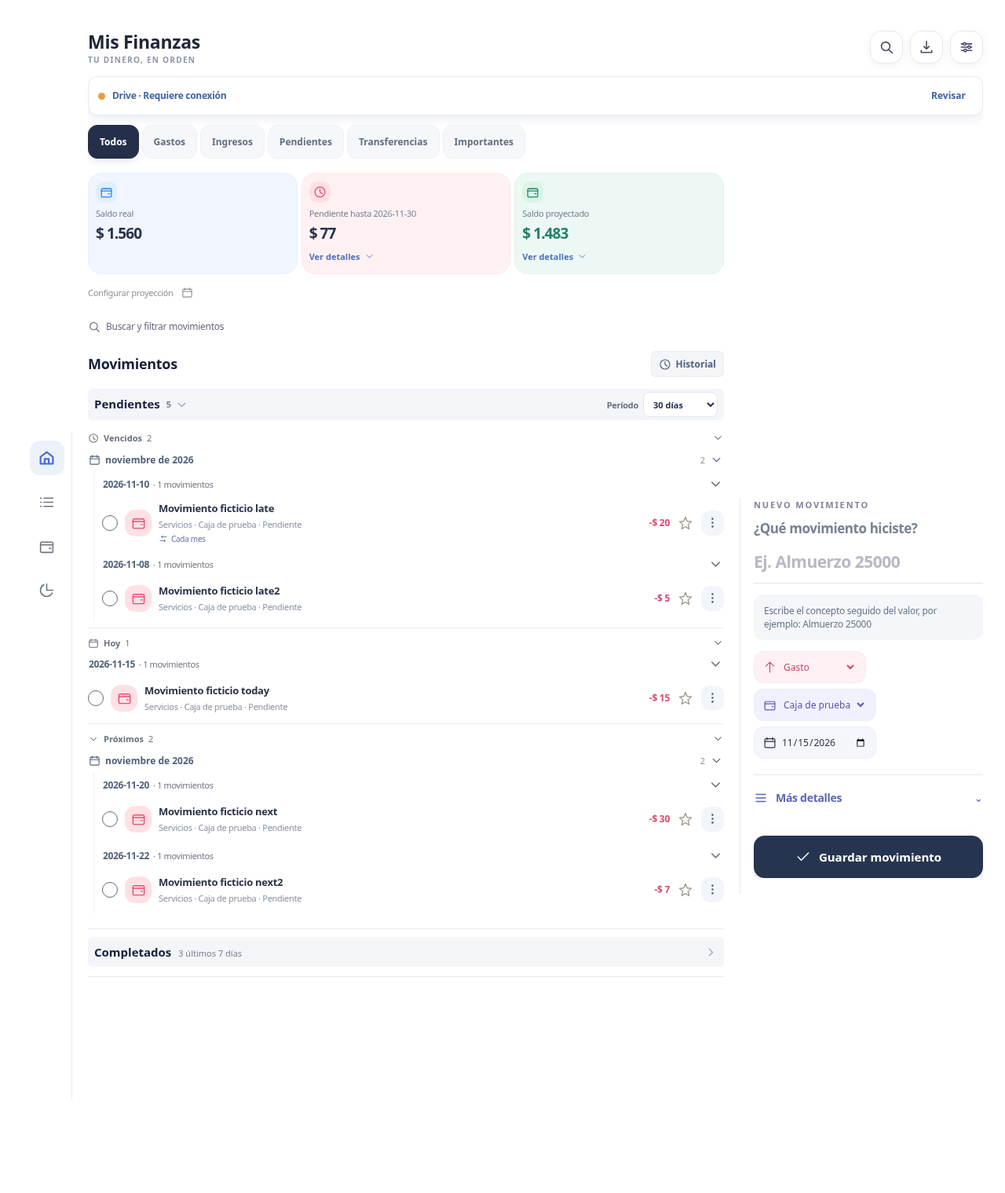
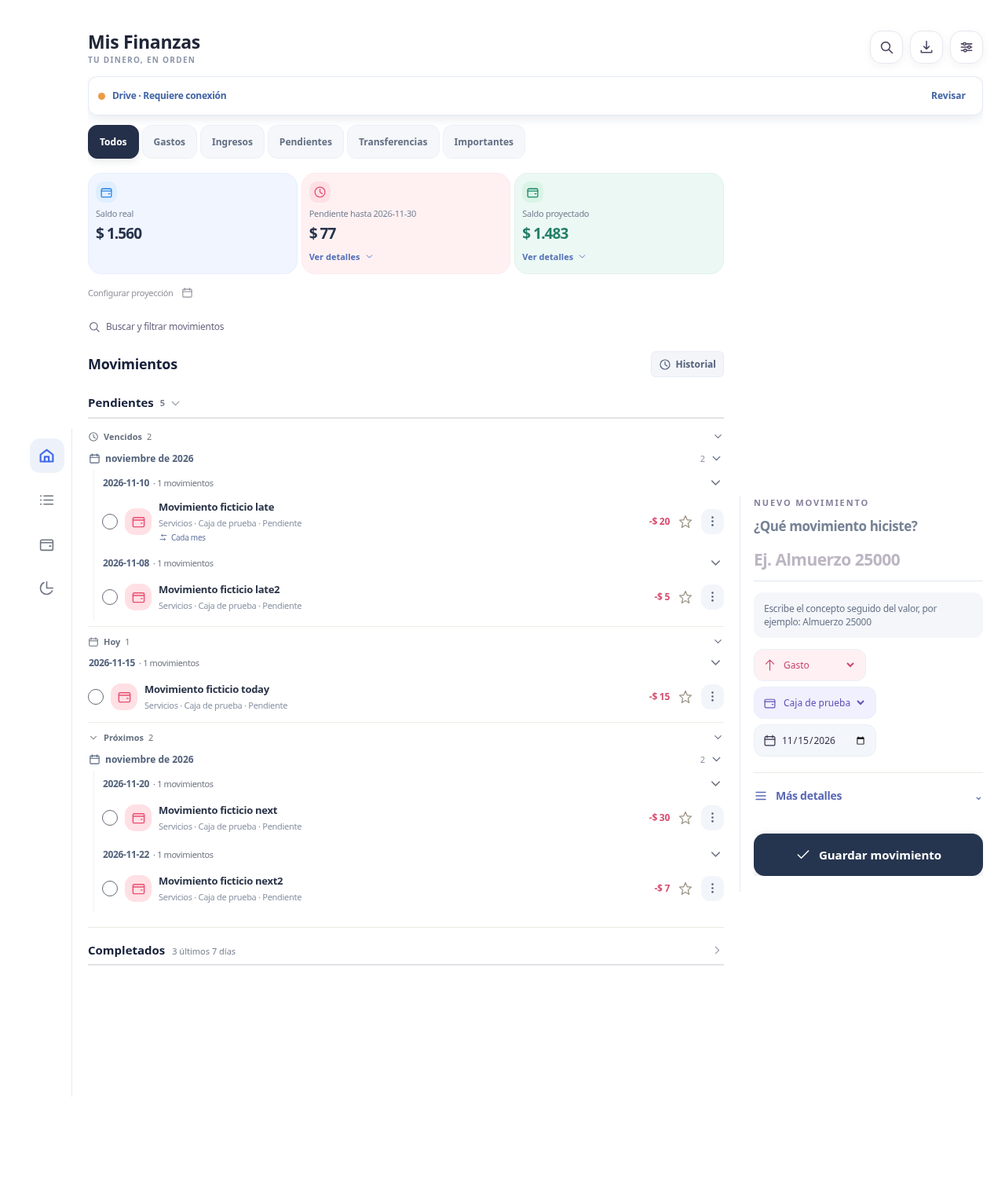
Aligerar encabezados de Inicio y mover filtro de periodo

diff --git a/index.html b/index.html
@@ -250,7 +250,9 @@ const render=()=>{document.getElementById('nav').innerHTML=['Inicio','Listas','C
 const searchWasOpen=document.querySelector('.filters-panel')?.open;
 document.getElementById('main').innerHTML=html;
 if(searchWasOpen&&page==='Inicio')document.querySelector('.filters-panel').open=true;
+if(page==='Inicio')placeAgendaPeriod();
 if(page==='Análisis')arrangeAnalysisSections()};
+const placeAgendaPeriod=()=>{const period=document.querySelector('.agenda-main-head .agenda-period'),fields=document.querySelector('.filters-panel .row');if(!period||!fields)return;if(fields.querySelector('#agendaPeriod')){period.remove();return}period.className='field';fields.append(period)};
 const arrangeAnalysisSections=()=>{const main=document.getElementById('main'),headings=[...main.querySelectorAll(':scope > .section-heading')];if(headings.length!==3)return;const strip=document.createElement('div');strip.className='analysis-tracking';headings[0].before(strip);headings.forEach((heading,i)=>{const section=document.createElement('section');section.className='analysis-tracking-column';let node=heading;while(node&&node!==headings[i+1]){const next=node.nextElementSibling;section.append(node);node=next}strip.append(section);const rows=[...section.querySelectorAll(':scope > .budget-row,:scope > .item')];rows.forEach((row,j)=>{row.hidden=j>=3&&!expandedAnalysisSections.has(i)});if(rows.length>3)section.insertAdjacentHTML('beforeend',`<button type="button" class="analysis-more" data-action="toggleAnalysisSection" data-section="${i}" aria-expanded="${expandedAnalysisSections.has(i)}">${expandedAnalysisSections.has(i)?'Ver menos':`Ver todos (${rows.length})`}</button>`);if(i===2)rows.forEach((row,j)=>{const d=db.debts[j],original=Number(d.balance),remaining=debtBalance(d);if(d.balance==null||d.balance===''||!Number.isFinite(original)||original<=0||!Number.isFinite(remaining)||remaining>original)return;const paid=Math.max(0,original-remaining),percent=Math.min(100,paid/original*100);row.querySelector('.detail')?.insertAdjacentHTML('beforeend',`<div class="progress debt-progress" role="progressbar" aria-label="Abonado a ${esc(d.name)}" aria-valuemin="0" aria-valuemax="100" aria-valuenow="${Math.round(percent)}"><i style="width:${percent}%"></i></div>`)})})};
 const open=html=>{const modal=document.getElementById('modal');if(!desktopQuickOpening&&modal.dataset.inlineQuick==='true'){parkedQuick=modal.firstElementChild;parkedQuick.remove()}modal.dataset.inlineQuick=desktopQuickOpening?'true':'false';modal.innerHTML=`<div class="overlay" id="overlay"><div class="sheet">${html}</div></div>`};const close=()=>{const modal=document.getElementById('modal');modal.innerHTML='';if(desktopLayout.matches&&parkedQuick){modal.dataset.inlineQuick='true';refreshParkedQuick();modal.append(parkedQuick);parkedQuick=null}else{parkedQuick=null;modal.dataset.inlineQuick='false';mountDesktopQuick()}};const field=(label,name,value='',type='text')=>`<label class="field">${label}<input name="${name}" type="${type}" value="${esc(value)}" ${type==='number'?'min="0" step="any"':''}></label>`;const select=(label,name,items,val='')=>`<label class="field">${label}<select name="${name}">${items.map(([id,name])=>`<option value="${esc(id)}" ${val===id?'selected':''}>${esc(name)}</option>`).join('')}</select></label>`;const form=(title,content,action='save')=>open(`<div class="between"><h2>${title}</h2><button class="iconbtn" data-action="close">✕</button></div><form id="form" data-form="${action}">${content}<div class="row" style="margin-top:22px"><button class="secondary" type="button" data-action="close">Cancelar</button><button class="primary" type="submit">Guardar</button></div></form>`);const accountOptions=()=>db.accounts.map(a=>[a.id,a.name]);
 const transactionForm=(id)=>{let t=db.transactions.find(x=>x.id===id)||{type:'expense',title:'',amount:'',category:'Alimentación',date:today(),account:db.accounts[0]?.id,toAccount:db.accounts[1]?.id,list:'',status:'done',repeat:'',notes:'',star:false};let quick=t.title+(t.amount?' '+t.amount:'');if(!id&&t.date>today())t.status='pending';open(`<div class="quick-head"><span class="quick-kicker">${id?'EDITAR':'NUEVO'} MOVIMIENTO</span><button class="quick-close" data-action="close" aria-label="Cerrar">×</button></div><form id="form" data-form="transaction"><input type="hidden" name="id" value="${esc(id||'')}"><input type="hidden" name="title" value="${esc(t.title)}"><input type="hidden" name="amount" value="${esc(t.amount)}"><label class="quick-prompt" for="quickEntry">¿Qué movimiento hiciste?</label><input id="quickEntry" class="quick-entry" type="text" inputmode="text" autocomplete="off" placeholder="Ej. Almuerzo 25000" value="${esc(quick)}" required><div class="quick-detected" id="quickDetected">Escribe un concepto y un valor</div><div class="quick-chips"><label class="quick-chip expense-chip" id="movementTypeChip">${ico('arrowup',17)}<select name="type" aria-label="Tipo de movimiento">${[['expense','Gasto'],['income','Ingreso'],['transfer','Transferencia']].map(([v,l])=>`<option value="${v}" ${t.type===v?'selected':''}>${l}</option>`).join('')}</select></label><label class="quick-chip account-chip">${ico('wallet',17)}<select name="account" aria-label="Cuenta">${accountOptions().map(([v,l])=>`<option value="${esc(v)}" ${t.account===v?'selected':''}>${esc(l)}</option>`).join('')}</select></label><label class="quick-chip date-chip">${ico('calendar',17)}<input name="date" type="date" value="${esc(t.date)}" aria-label="Fecha"></label></div><details class="quick-details"><summary>${ico('menu',18)} Más detalles <span>⌄</span></summary><div class="quick-details-body"><div class="quick-line category-quick-row"><span>Categoría</span><div class="category-quick-controls">${select('','category',db.categories.map(x=>[x,x]),t.category)}<button type="button" class="category-icon-btn" data-action="catQuickAdd" title="Nueva categoría" aria-label="Agregar categoría">${ico('plus',19)}</button><button type="button" class="category-icon-btn" data-action="catQuickEdit" title="Renombrar categoría" aria-label="Editar categoría">${ico('edit',18)}</button></div></div><label class="quick-line">Estado ${select('','status',[['done','Realizado'],['pending','Pendiente']],t.status)}</label><div class="destination-field quick-line">Cuenta destino ${select('','toAccount',[['','Ninguna'],...accountOptions()],t.toAccount)}</div><label class="quick-line">Repetir ${select('','repeat',[['','No repetir'],['daily','Diario'],['weekly','Semanal'],['monthly','Mensual'],['yearly','Anual'],['custom','Personalizar…']],t.repeat&&(/^(days|weeks|months|years):\d+$/.test(t.repeat)||t.repeat.startsWith('months:'))?'custom':t.repeat)}</label><div class="custom-repeat-row" style="${/^(days|weeks|months|years):\d+$/.test(t.repeat)?'':'display:none'}"><span>Repetir cada</span><div class="repeat-controls"><input name="repeatEvery" type="number" min="1" max="365" value="${esc((t.repeat||'').split(':')[1]||'2')}" aria-label="Intervalo de repetición"><select name="repeatUnit" aria-label="Unidad de repetición">${[['days','días'],['weeks','semanas'],['months','meses'],['years','años']].map(([u,label])=>`<option value="${u}" ${((t.repeat||'').split(':')[0]||'months')===u?'selected':''}>${label}</option>`).join('')}</select></div></div><div class="quick-line" id="movementLinkRow"><span>Relacionar con</span><label class="field"> <select name="linkTarget" aria-label="Deuda o meta de ahorro"><option value="">Sin relación</option>${db.debts.map(d=>`<option value="debt:${esc(d.id)}" ${t.linkKind==='debt'&&t.linkId===d.id?'selected':''}>Deuda · ${esc(d.name)}</option>`).join('')}${db.goals.map(g=>`<option value="goal:${esc(g.id)}" ${t.linkKind==='goal'&&t.linkId===g.id?'selected':''}>Meta · ${esc(g.name)}</option>`).join('')}</select></label></div><label class="quick-line">Lista ${select('','list',[['','Sin lista'],...db.lists.map(l=>[l.id,l.name])],t.list)}</label><label class="quick-line">Notas <textarea name="notes" rows="2" placeholder="Añadir nota…">${esc(t.notes)}</textarea></label><label class="quick-line">Comprobante <input type="file" name="attachment" accept="image/*"></label></div></details><button class="quick-save" type="button">${ico('check',20)} Guardar movimiento</button></form>`);
@@ -295,7 +297,7 @@ const categoryIconPicker=(category,quick=false)=>{if(!category)return alert('Sel
 const categoryManager=()=>open(`<div class="between"><h2>Mis categorías</h2><button class="iconbtn" data-action="close" aria-label="Cerrar">✕</button></div><p class="mini muted">Personaliza tus categorías. Renombrarlas actualiza también los movimientos y presupuestos existentes.</p><div class="category-manager">${db.categories.map((c,i)=>`<div class="category-manager-row"><span class="category-manager-icon">${ico(catIcon(c),18)}</span><strong>${esc(c)}</strong><button type="button" class="category-icon-btn" data-action="pickCategoryIcon" data-index="${i}" aria-label="Elegir ícono para ${esc(c)}">${ico('paint',18)}</button><button type="button" class="category-icon-btn" data-action="renameCategory" data-index="${i}" aria-label="Renombrar ${esc(c)}">${ico('edit',18)}</button><button type="button" class="category-icon-btn category-remove" data-action="removeCategory" data-index="${i}" aria-label="Eliminar ${esc(c)}">${ico('trash',18)}</button></div>`).join('')}</div><button type="button" class="primary wide" data-action="addCategory">${ico('plus',18)} Agregar categoría</button>`);
 const settings=()=>form('Configuración y sincronización',`<button type="button" class="drive-settings-status" id="openDriveSettings"><span class="sync-dot"></span><span class="drive-settings-label">Drive · Conectar</span><span class="drive-settings-arrow">${ico("chevronDown",16)}</span></button><div class="notice">Tus movimientos se guardan en este navegador. Si abres el HTML desde Descargas, Android podría no recuperar el almacenamiento en otra apertura. Usa Exportar JSON para conservar una copia e Importar JSON para recuperarla. La sincronización en la nube es opcional. No introduzcas una clave service_role.</div>${field('URL de Supabase','cloudUrl',db.settings.cloudUrl)}${field('Clave pública anon / publishable','cloudKey',db.settings.cloudKey)}${field('Identificador privado de sincronización','syncId',db.settings.syncId)}${field('Secreto compartido para cifrado local','syncSecret',db.settings.syncSecret,'password')}<p class="mini">Última sincronización: ${esc(db.settings.lastSync||'Nunca')}</p><button type="button" class="secondary wide" data-action="manageCategories" style="margin:8px 0 14px">${ico('edit',17)} Administrar categorías</button><div class="row"><button type="button" class="secondary" data-action="export">Exportar JSON</button><button type="button" class="secondary" data-action="import">Importar JSON</button></div><div class="row"><button type="button" class="secondary" data-action="syncPush">Subir a nube</button><button type="button" class="secondary" data-action="syncPull">Descargar de nube</button></div><p class="mini">Sincronización manual con cifrado AES-GCM. Descargar reemplaza los datos locales; exporta antes una copia. No es una fusión automática de cambios concurrentes.</p>`, 'settings');const saveFile=()=>{let blob=new Blob([JSON.stringify(db,null,2)],{type:'application/json'}),url=URL.createObjectURL(blob),a=document.createElement('a');a.href=url;a.download='mis-finanzas-'+today()+'.json';a.click();setTimeout(()=>URL.revokeObjectURL(url),2000)};const importFile=()=>{let i=document.createElement('input');i.type='file';i.accept='.json,application/json';i.onchange=async()=>{try{let d=JSON.parse(await i.files[0].text());if(!Array.isArray(d.transactions)||!Array.isArray(d.accounts))throw Error('Formato no válido');if(confirm('¿Reemplazar TODOS los datos locales con esta copia?')){db=d;persist();close();render()}}catch(e){alert(e.message)}};i.click()};const cryptoKey=async(secret,salt)=>{let material=await crypto.subtle.importKey('raw',new TextEncoder().encode(secret),'PBKDF2',false,['deriveKey']);return crypto.subtle.deriveKey({name:'PBKDF2',salt,iterations:180000,hash:'SHA-256'},material,{name:'AES-GCM',length:256},false,['encrypt','decrypt'])};const b64=b=>btoa(String.fromCharCode(...new Uint8Array(b)));const unb64=s=>Uint8Array.from(atob(s),c=>c.charCodeAt(0));const encrypt=async(data,secret)=>{let salt=crypto.getRandomValues(new Uint8Array(16)),iv=crypto.getRandomValues(new Uint8Array(12)),key=await cryptoKey(secret,salt),cipher=await crypto.subtle.encrypt({name:'AES-GCM',iv},key,new TextEncoder().encode(JSON.stringify(data)));return {salt:b64(salt),iv:b64(iv),cipher:b64(cipher)}};const decrypt=async(payload,secret)=>{let key=await cryptoKey(secret,unb64(payload.salt)),plain=await crypto.subtle.decrypt({name:'AES-GCM',iv:unb64(payload.iv)},key,unb64(payload.cipher));return JSON.parse(new TextDecoder().decode(plain))};const sync=async(direction)=>{let s=db.settings;if(!s.cloudUrl||!s.cloudKey||!s.syncId||!s.syncSecret)return alert('Configura URL, clave pública, identificador y secreto.');if(!navigator.onLine)return alert('Sin conexión. Tus datos siguen guardados localmente.');let url=s.cloudUrl.replace(/\/$/,'')+'/rest/v1/finance_snapshots',headers={'apikey':s.cloudKey,'Authorization':'Bearer '+s.cloudKey,'Content-Type':'application/json'},id=encodeURIComponent(s.syncId);try{if(direction==='push'){if(!confirm('Subir reemplazará la copia en la nube. ¿Continuar?'))return;let payload=await encrypt({...db,settings:{...db.settings,cloudKey:'',syncSecret:''}},s.syncSecret),res=await fetch(url,{method:'POST',headers:{...headers,Prefer:'resolution=merge-duplicates'},body:JSON.stringify({id:s.syncId,payload,updated_at:new Date().toISOString()})});if(!res.ok)throw Error(await res.text())}else{let res=await fetch(url+'?id=eq.'+id+'&select=payload',{headers});if(!res.ok)throw Error(await res.text());let rows=await res.json();if(!rows.length)throw Error('No existe una copia en la nube');let remote=await decrypt(rows[0].payload,s.syncSecret);if(!Array.isArray(remote.transactions)||!Array.isArray(remote.accounts))throw Error('Datos inválidos');if(!confirm('Descargar reemplazará los datos locales. Exporta una copia primero. ¿Continuar?'))return;let localSettings={...s};db={...remote,settings:localSettings}}db.settings.lastSync=new Date().toLocaleString('es-CO');persist();close();render();alert('Sincronización completada')}catch(e){alert('No se pudo sincronizar: '+e.message)}};
 document.addEventListener('click',e=>{let n=e.target.closest('[data-page],[data-filter],[data-action]');if(!n)return;if(n.dataset.page){page=n.dataset.page;render();return}if(n.dataset.filter){filter=n.dataset.filter;render();return}let action=n.dataset.action,id=n.dataset.id,t=db.transactions.find(x=>x.id===id);if(action==='showMetricDetail')showMetricDetail(n.dataset.detail);else if(action==='hideMetricDetail'){const panel=document.getElementById('metric-detail-display');if(panel)panel.hidden=true;document.querySelectorAll('[data-action=showMetricDetail]').forEach(b=>b.setAttribute('aria-expanded','false'))}else if(action==='close')close();else if(action==='manageCategories')categoryManager();else if(action==='catQuickAdd')categoryAdd(true);else if(action==='catQuickIcon')categoryIconPicker(document.querySelector('#form [name=category]')?.value,true);else if(action==='pickCategoryIcon')categoryIconPicker(db.categories[Number(n.dataset.index)]);else if(action==='catQuickEdit')categoryRename(document.querySelector('#form [name=category]')?.value,true);else if(action==='addCategory')categoryAdd();else if(action==='renameCategory')categoryRename(db.categories[Number(n.dataset.index)]);else if(action==='removeCategory')categoryDelete(db.categories[Number(n.dataset.index)]);else if(action==='toggleDate'){const k=n.dataset.date;collapsedDates.has(k)?collapsedDates.delete(k):collapsedDates.add(k);const group=n.closest('.date-group');group.querySelector('.date-group-body').hidden=collapsedDates.has(k);n.setAttribute('aria-expanded',String(!collapsedDates.has(k)))}else if(action==='editBudget'){const b=db.budgets.find(x=>x.id===id);if(!b)return;form('Editar presupuesto',`<input type="hidden" name="id" value="${esc(b.id)}"><div class="budget-category-tools">${select('Categoría','category',db.categories.map(x=>[x,x]),b.category)}<button type="button" class="category-icon-btn" data-action="catQuickAdd">${ico('plus',19)}</button><button type="button" class="category-icon-btn" data-action="catQuickEdit">${ico('edit',19)}</button></div>${field('Presupuesto mensual (COP)','amount',b.amount,'number')}`,'edit-budget')}else if(action==='actions')actionMenu(id);else if(action==='edit'){close();transactionForm(id)}else if(action==='toggle')mark(id);else if(action==='star'){t.star=!t.star;persist();render()}else if(action==='duplicate'){db.transactions.push({...t,id:uuid(),title:t.title+' (copia)',created:new Date().toISOString(),status:'pending',generatedNextId:'',recurrenceParentId:'',recurrenceRootId:''});persist();close();render()}else if(action==='postpone'){t.date=nextDate(t.date,'daily');persist();close();render()}else if(action==='delete'){if(confirm('¿Eliminar este movimiento?')){t.deleted=true;persist();close();render()}}else if(action==='newList'||action==='newAccount'||action==='newBudget'||action==='newGoal'||action==='newDebt')addRecord(action);else if(action==='openList'){listFilter=id;filter='Todos';page='Inicio';render()}else if(action==='smart'){page='Inicio';listFilter='';filter=id==='pending'?'Pendientes':id==='star'?'Importantes':'Todos';query='';render();if(id==='repeat'){document.querySelectorAll('.item').forEach(el=>{if(!db.transactions.find(t=>t.id===el.dataset.id)?.repeat)el.remove()})}}else if(action==='deleteList'){let l=db.lists.find(x=>x.id===id);let name=ask('Renombrar lista (deja vacío para eliminar)',l.name);if(name)l.name=name;else if(confirm('¿Eliminar lista? Los movimientos quedarán sin lista.')){db.lists=db.lists.filter(x=>x.id!==id);db.transactions.forEach(t=>{if(t.list===id)t.list=''})}persist();render()}else if(action==='editAccount'){let a=db.accounts.find(x=>x.id===id),name=ask('Nombre',a.name);if(name!==null&&name.trim()){a.name=name;let val=ask('Saldo inicial (no saldo actual)',a.opening);if(val!==null&&Number.isFinite(Number(val)))a.opening=Number(val);persist();render()}}else if(action==='deleteBudget'||action==='deleteGoal'||action==='deleteDebt'){if(confirm('¿Eliminar?')){let key=action.slice(6).toLowerCase()+'s';db[key]=db[key].filter(x=>x.id!==id);persist();render()}}else if(action==='editDebt'){const d=db.debts.find(x=>x.id===id);if(d)form('Editar deuda',`<input type="hidden" name="id" value="${esc(d.id)}">${field('Nombre de la deuda','name',d.name)}${field('Saldo inicial de la deuda (COP)','balance',d.balance,'number')}<div class="notice">Los abonos vinculados a movimientos se descuentan automáticamente de este saldo inicial.</div>`,'edit-debt')}else if(action==='addGoal'||action==='payDebt'){const kind=action==='payDebt'?'debt':'goal',obj=(kind==='debt'?db.debts:db.goals).find(x=>x.id===id);if(obj)form(kind==='debt'?'Abonar a deuda':'Aportar a meta',`<input type="hidden" name="linkTarget" value="${kind}:${esc(id)}"><div class="notice">${esc(obj.name)} · Este abono creará un movimiento de gasto realizado en la cuenta seleccionada. Se descontará una sola vez del saldo real.</div>${field('Importe del abono (COP)','amount','','number')}${select('Cuenta de origen','account',accountOptions())}${field('Fecha','date',today(),'date')}`,'linked-payment')}else if(action==='export')saveFile();else if(action==='import')importFile();else if(action==='syncPush'||action==='syncPull')sync(action==='syncPush'?'push':'pull')});document.addEventListener('change',e=>{if(e.target.id==='proj'){projection=e.target.value;render()}if(e.target.id==='until'){until=e.target.value||today();render()}if(e.target.id==='listFilter'){listFilter=e.target.value;render()}if(e.target.id==='accountFilter'){accountFilter=e.target.value;render()}});
-document.addEventListener('input',e=>{if(e.target.id==='search'){query=e.target.value;const list=document.querySelector('.movements');if(list)list.innerHTML=groupTransactions()}if(e.target.name==='title'&&document.getElementById('form')?.dataset.form==='transaction'){let m=e.target.value.match(/^(.+?)\s+(\d[\d.,]*)$/);if(m){let v=document.querySelector('[name="amount"]');if(!v.value)v.value=m[2].replace(/[.,]/g,'')}}});
+document.addEventListener('input',e=>{if(e.target.id==='search'){query=e.target.value;const list=document.querySelector('.movements');if(list){list.innerHTML=groupTransactions();placeAgendaPeriod()}}if(e.target.name==='title'&&document.getElementById('form')?.dataset.form==='transaction'){let m=e.target.value.match(/^(.+?)\s+(\d[\d.,]*)$/);if(m){let v=document.querySelector('[name="amount"]');if(!v.value)v.value=m[2].replace(/[.,]/g,'')}}});
 document.addEventListener('submit',async e=>{if(e.target.id!=='form')return;e.preventDefault();let f=e.target,d=Object.fromEntries(new FormData(f).entries());if(f.dataset.form==='edit-debt'){const obj=db.debts.find(x=>x.id===d.id),amount=Number(d.balance);if(!obj||!d.name.trim()||!Number.isFinite(amount)||amount<0)return alert('Revisa el nombre y el saldo');obj.name=d.name.trim();obj.balance=amount;persist();close();render();return}if(f.dataset.form==='linked-payment'){const amount=Number(d.amount),[kind,id]=(d.linkTarget||'').split(':');const obj=(kind==='debt'?db.debts:db.goals).find(x=>x.id===id);if(!obj||!(amount>0)||!db.accounts.some(a=>a.id===d.account)||!d.date)return alert('Revisa los datos del abono');if(kind==='debt'&&amount>debtBalance(obj))return alert('El abono supera el saldo pendiente de la deuda');db.transactions.push({id:uuid(),type:'expense',title:(kind==='debt'?'Abono deuda: ':'Aporte meta: ')+obj.name,amount,category:kind==='debt'?'Deudas':'Ahorro',date:d.date,account:d.account,toAccount:'',list:'',status:d.date>today()?'pending':'done',repeat:'',notes:'',linkKind:kind,linkId:id,attachment:'',star:false,created:new Date().toISOString()});persist();close();render();return}if(f.dataset.form==='edit-budget'){const b=db.budgets.find(x=>x.id===d.id);if(!b)return;const amount=Number(d.amount);if(!(amount>0))return alert('Indica un importe válido');b.category=d.category;b.amount=amount;persist();close();render();return}if(f.dataset.form==='settings'){db.settings={...db.settings,cloudUrl:d.cloudUrl.trim(),cloudKey:d.cloudKey.trim(),syncId:d.syncId.trim(),syncSecret:d.syncSecret};persist();close();render();return}if(f.dataset.form.startsWith('create-')){let k=f.dataset.form.slice(7),n=(d.name||'').trim(),v=Number(d.amount||d.target||d.balance||0);if(k==='newList'){if(!n)return alert('Escribe el nombre');db.lists.push({id:uuid(),name:n})}else if(k==='newAccount'){if(!n||!Number.isFinite(Number(d.opening)))return alert('Revisa los datos');db.accounts.push({id:uuid(),name:n,type:d.type,opening:Number(d.opening)})}else if(k==='newBudget'){if(!(v>0))return alert('Indica un importe válido');db.budgets.push({id:uuid(),category:d.category,amount:v})}else if(k==='newGoal'){if(!n||!(v>0))return alert('Revisa los datos');db.goals.push({id:uuid(),name:n,target:v,saved:0})}else if(k==='newDebt'){if(!n||!(v>0))return alert('Revisa los datos');db.debts.push({id:uuid(),name:n,balance:v})}persist();close();render();return;}if(f.dataset.form==='transaction'){// Interpretar el texto al guardar, incluso si el evento input no se disparó.
 let entry=f.querySelector('#quickEntry')?.value.trim()||'';
 let match=entry.match(/^(.*?)\s+\$?([0-9][0-9.,]*)\s*$/);
@@ -348,7 +350,7 @@ const syncDesktopNav=()=>{desktopNav.innerHTML=document.getElementById('nav').in
 if(typeof MutationObserver!=='undefined')new MutationObserver(syncDesktopNav).observe(document.getElementById('nav'),{childList:true});
 desktopLayout.addEventListener('change',()=>{const modal=document.getElementById('modal');if(desktopLayout.matches)mountDesktopQuick();else{parkedQuick=null;if(modal.dataset.inlineQuick==='true'){modal.innerHTML='';modal.dataset.inlineQuick='false'}}});
 document.addEventListener('change',e=>{if(e.target.id==='proj'||e.target.id==='until')saveProjectionPreferences()});
-document.addEventListener('change',e=>{const id=e.target.id;if(id==='agendaPeriod'){agendaPeriod=e.target.value;historyLimit=100;try{localStorage.setItem(AGENDA_PREFS_KEY,JSON.stringify({period:agendaPeriod}))}catch{}render()}else if(['historyFrom','historyTo','historyType','historyStatus','historyCategory'].includes(id)){({historyFrom:v=>historyFrom=v,historyTo:v=>historyTo=v,historyType:v=>historyType=v,historyStatus:v=>historyStatus=v,historyCategory:v=>historyCategory=v})[id](e.target.value);historyLimit=100;render()}});
+document.addEventListener('change',e=>{const id=e.target.id;if(id==='agendaPeriod'){agendaPeriod=e.target.value;historyLimit=100;try{localStorage.setItem(AGENDA_PREFS_KEY,JSON.stringify({period:agendaPeriod}))}catch{}render();const search=document.getElementById('search');if(search&&document.querySelector('.filters-panel')?.open){search.focus();search.setSelectionRange(search.value.length,search.value.length)}}else if(['historyFrom','historyTo','historyType','historyStatus','historyCategory'].includes(id)){({historyFrom:v=>historyFrom=v,historyTo:v=>historyTo=v,historyType:v=>historyType=v,historyStatus:v=>historyStatus=v,historyCategory:v=>historyCategory=v})[id](e.target.value);historyLimit=100;render()}});
 document.addEventListener('click',e=>{const button=e.target.closest('[data-action]'),action=button?.dataset.action;if(action==='showHistory'){historyMode=true;historyLimit=100;render()}else if(action==='showAgenda'){historyMode=false;render()}else if(action==='togglePending'){pendingOpen=!pendingOpen;button.setAttribute('aria-expanded',String(pendingOpen));button.closest('.agenda-main').querySelector('.agenda-groups').hidden=!pendingOpen}else if(action==='toggleAgendaGroup'){const key=button.dataset.group;collapsedAgendaGroups.has(key)?collapsedAgendaGroups.delete(key):collapsedAgendaGroups.add(key);button.setAttribute('aria-expanded',String(!collapsedAgendaGroups.has(key)));button.closest('.agenda-group').querySelector('.agenda-group-body').hidden=collapsedAgendaGroups.has(key)}else if(action==='toggleMonth'){const key=button.dataset.month;collapsedMonths.has(key)?collapsedMonths.delete(key):collapsedMonths.add(key);button.setAttribute('aria-expanded',String(!collapsedMonths.has(key)));button.closest('.month-group').querySelector('.month-group-body').hidden=collapsedMonths.has(key)}else if(action==='toggleCompleted'){completedOpen=!completedOpen;render()}else if(action==='toggleAnalysisSection'){const index=Number(button.dataset.section),section=button.closest('.analysis-tracking-column');expandedAnalysisSections.has(index)?expandedAnalysisSections.delete(index):expandedAnalysisSections.add(index);section.querySelectorAll(':scope > .budget-row,:scope > .item').forEach((row,j)=>{row.hidden=j>=3&&!expandedAnalysisSections.has(index)});button.textContent=expandedAnalysisSections.has(index)?'Ver menos':`Ver todos (${section.querySelectorAll(':scope > .budget-row,:scope > .item').length})`;button.setAttribute('aria-expanded',String(expandedAnalysisSections.has(index)))}else if(action==='moreHistory'||action==='moreAgenda'){historyLimit+=100;render()}else if(action==='undoMovement'){const id=button.dataset.id;if(undoMovementId===id)mark(id)}});
 if('serviceWorker'in navigator&&location.protocol!=='file:')navigator.serviceWorker.register('./sw.js').catch(()=>{});render();syncDesktopNav();mountDesktopQuick();
 </script><style>
@@ -376,7 +378,7 @@ if('serviceWorker'in navigator&&location.protocol!=='file:')navigator.serviceWor
 @media(max-width:375px){.agenda-period>span{display:none}.agenda-history{padding-right:0}.agenda-completed-toggle small{display:block;margin:2px 0 0}}
 @media(prefers-reduced-motion:reduce){.date-chevron,.transaction,.agenda-completed-toggle svg{transition:none!important}}
 .agenda-period select,.agenda-filters input,.agenda-filters select,.recurrence-habitual input{border:1px solid #dfe5ee;border-radius:8px;background:#fff;color:#243149;padding:6px 8px;font:inherit}.agenda-period select{min-height:32px}.agenda-filters input,.agenda-filters select{min-height:36px}
-.agenda-main-head,.agenda-completed-toggle{background:#f3f5f9;border-radius:6px;padding:4px 8px;box-shadow:none;min-height:38px;font-weight:550}.agenda-main h3{font-weight:550}.agenda-pending-toggle{display:flex;align-items:center;gap:5px;border:0;background:transparent;padding:0;color:inherit;font:inherit;text-align:left}.agenda-pending-toggle svg{color:#9299a7;transition:transform .2s}.agenda-pending-toggle[aria-expanded="false"] svg{transform:rotate(-90deg)}.agenda-completed-toggle{font-weight:550}
+.agenda-main-head,.agenda-completed-toggle{background:transparent;border-radius:0;border-bottom:2px solid #e1e3e6;padding:4px 0;box-shadow:none;min-height:38px;font-weight:550}.agenda-completed{border-bottom:0}.agenda-main h3{font-weight:550}.agenda-pending-toggle{display:flex;align-items:center;gap:5px;border:0;background:transparent;padding:0;color:inherit;font:inherit;text-align:left}.agenda-pending-toggle svg{color:#9299a7;transition:transform .2s}.agenda-pending-toggle[aria-expanded="false"] svg{transform:rotate(-90deg)}.agenda-completed-toggle{font-weight:550}
 .agenda-group-toggle{width:100%;display:flex;align-items:center;gap:6px;border:0;background:transparent;text-align:left;padding:3px 0;color:#687281;font-size:11px;font-weight:650}.agenda-group-toggle small{font-size:11px;font-weight:500}.agenda-group-toggle svg:last-child{margin-left:auto;transition:transform .2s}.agenda-group-toggle[aria-expanded="false"] svg:last-child{transform:rotate(-90deg)}.agenda-group-body[hidden],.agenda-groups[hidden]{display:none}.agenda-pending-toggle:focus-visible,.agenda-group-toggle:focus-visible,.analysis-more:focus-visible{outline:2px solid #455ac4;outline-offset:2px}
 .agenda-history{background:#f3f5f9;border:1px solid #e9edf4;border-radius:6px;padding:7px 9px}.agenda-history:hover,.agenda-back:hover{background:#e9edf4}.agenda-history:focus-visible,.agenda-back:focus-visible,.month-toggle:focus-visible{outline:2px solid #455ac4;outline-offset:2px}.agenda-history:active,.agenda-back:active{transform:translateY(1px)}.agenda-history.active{color:#263149;background:#e9edf4;box-shadow:0 2px 8px #26314918}
 .agenda-switch{display:flex;align-items:center;gap:4px;min-width:0}.agenda-back{border:0;background:transparent;color:#53627b;font-size:12px;font-weight:600;padding:7px 5px;border-radius:6px}

diff --git a/tests/mejora-30.test.js b/tests/mejora-30.test.js
@@ -56,8 +56,12 @@ async function run(width) {
     assert.equal(await page.locator('.agenda-group .transaction').count(), 5);
     assert.equal(await page.locator('.agenda-group').first().locator('.date-group').count(), 2);
     assert.equal(await page.locator('.agenda-completed [data-action="toggleCompleted"]').getAttribute('aria-expanded'), 'false');
-    assert.equal(await page.locator('.agenda-main-head').evaluate(el => getComputedStyle(el).backgroundColor),
-      await page.locator('.agenda-completed-toggle').evaluate(el => getComputedStyle(el).backgroundColor));
+    for (const selector of ['.agenda-main-head', '.agenda-completed-toggle']) {
+      assert.equal(await page.locator(selector).evaluate(el => getComputedStyle(el).backgroundColor), 'rgba(0, 0, 0, 0)');
+      assert.equal(await page.locator(selector).evaluate(el => getComputedStyle(el).borderBottomWidth), '2px');
+    }
+    assert.equal(await page.locator('.agenda-main-head select').count(), 0);
+    assert.equal(await page.locator('.filters-panel #agendaPeriod').count(), 1);
     assert.equal(await page.locator('.agenda-history').evaluate(el => getComputedStyle(el).backgroundColor), 'rgb(243, 245, 249)');
     assert.equal(await page.locator('.agenda-pending-toggle').getAttribute('aria-expanded'), 'true');
     await page.locator('.agenda-pending-toggle').click();
@@ -94,11 +98,24 @@ async function run(width) {
     await page.locator('[data-filter="Gastos"]').click();
     assert.equal(await page.locator('[data-month="late:2026-11"]').getAttribute('aria-expanded'), 'false');
     await page.locator('[data-filter="Todos"]').click();
+    await page.locator('#searchToggle').click();
+    await page.locator('#search').pressSequentially('Movimiento ficticio');
+    assert.equal(await page.locator('#agendaPeriod').count(), 1);
+    assert.equal(await page.locator('.agenda-main-head select').count(), 0);
     await page.locator('#agendaPeriod').selectOption('7');
+    assert.equal(await page.locator('.agenda-group .transaction').count(), 4);
+    assert.equal(await page.locator('.agenda-group').first().locator('.transaction').count(), 2);
+    assert.equal(await page.locator('#search').inputValue(), 'Movimiento ficticio');
+    assert.equal(await page.locator('#search').evaluate(el => document.activeElement === el), true);
+    assert.equal(await page.locator('#search').evaluate(el => el.selectionStart), 'Movimiento ficticio'.length);
+    assert.equal(await page.locator('.filters-panel').evaluate(el => el.open), true);
     assert.equal(await page.locator('[data-month="late:2026-11"]').getAttribute('aria-expanded'), 'false');
     await page.locator('#agendaPeriod').selectOption('30');
-    await page.locator('#searchToggle').click();
-    await page.locator('#search').pressSequentially('Movimiento ficticio today');
+    assert.equal(await page.locator('.agenda-group .transaction').count(), 5);
+    await page.locator('#agendaPeriod').selectOption('all');
+    assert.equal(await page.locator('.agenda-group .transaction').count(), 5);
+    assert.equal(await page.locator('#search').evaluate(el => document.activeElement === el), true);
+    await page.locator('#search').pressSequentially(' today');
     assert.equal(await page.locator('.filters-panel').evaluate(el => el.open), true);
     assert.equal(await page.locator('#main .transaction').count(), 1);
     await page.locator('#search').fill('');
@@ -172,6 +189,7 @@ async function runDense(width) {
     dense.transactions.push({ ...tx('abono', '2026-11-14', 'done', 'expense', 50), linkKind: 'debt', linkId: 'debt-0' });
     await page.addInitScript(({ key, dense }) => localStorage.setItem(key, JSON.stringify(dense)), { key, dense });
     await page.goto(url);
+    await page.locator('#searchToggle').click();
     await page.locator('#agendaPeriod').selectOption('all');
     assert.deepEqual(await page.locator('[data-group="next:"] + .agenda-group-body .month-toggle span').allTextContents(),
       ['noviembre de 2026', 'diciembre de 2026', 'enero de 2027']);

diff --git a/tests/mejoras-28-29.test.js b/tests/mejoras-28-29.test.js
@@ -131,6 +131,7 @@ async function run(width) {
     await page.evaluate(({key,day})=>{const db=JSON.parse(localStorage.getItem(key));db.transactions=Array.from({length:24},(_,i)=>({id:`many-${i}`,type:'expense',title:`Pendiente ficticio ${i}`,amount:10+i,date:i<8?'2020-01-01':i<16?day:'2030-01-01',account:'cash',status:'pending',repeat:'',created:new Date().toISOString()}));localStorage.setItem(key,JSON.stringify(db))},{key,day});
     await page.reload();
     assert.equal(await page.locator('.agenda-main-head h3').textContent().then(s=>s.trim()), 'Pendientes 16');
+    await page.locator('#searchToggle').click();
     await page.locator('#agendaPeriod').selectOption('30');
     assert.equal(await page.locator('.agenda-main-head h3').textContent().then(s=>s.trim()), 'Pendientes 16');
     await page.locator('#agendaPeriod').selectOption('all');
